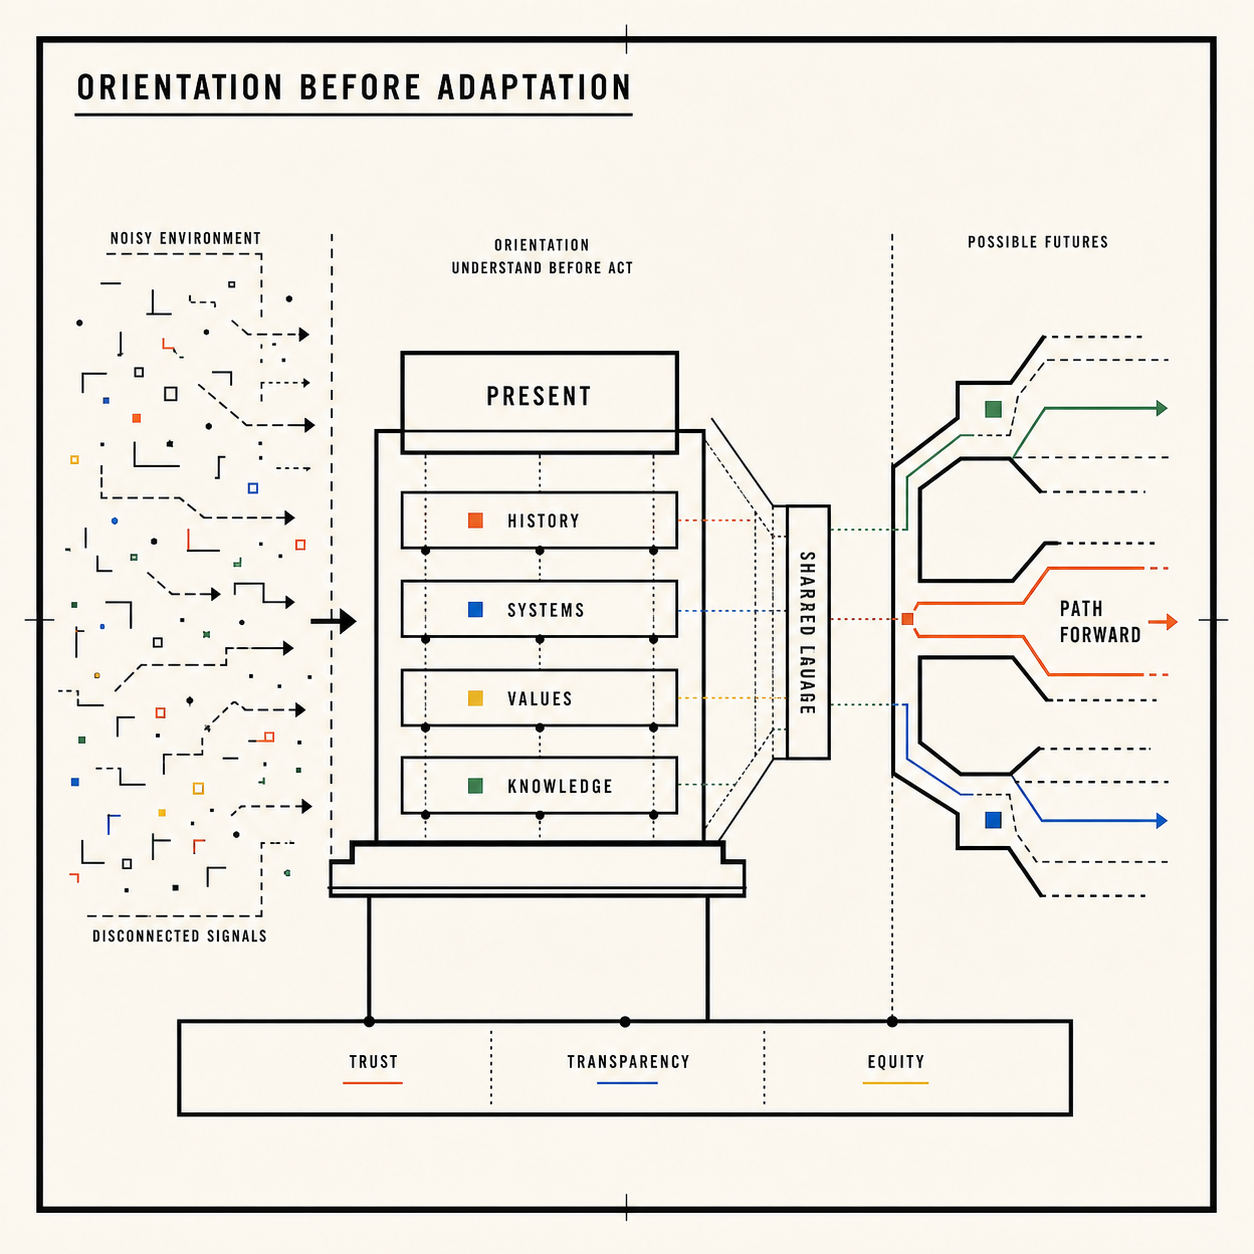
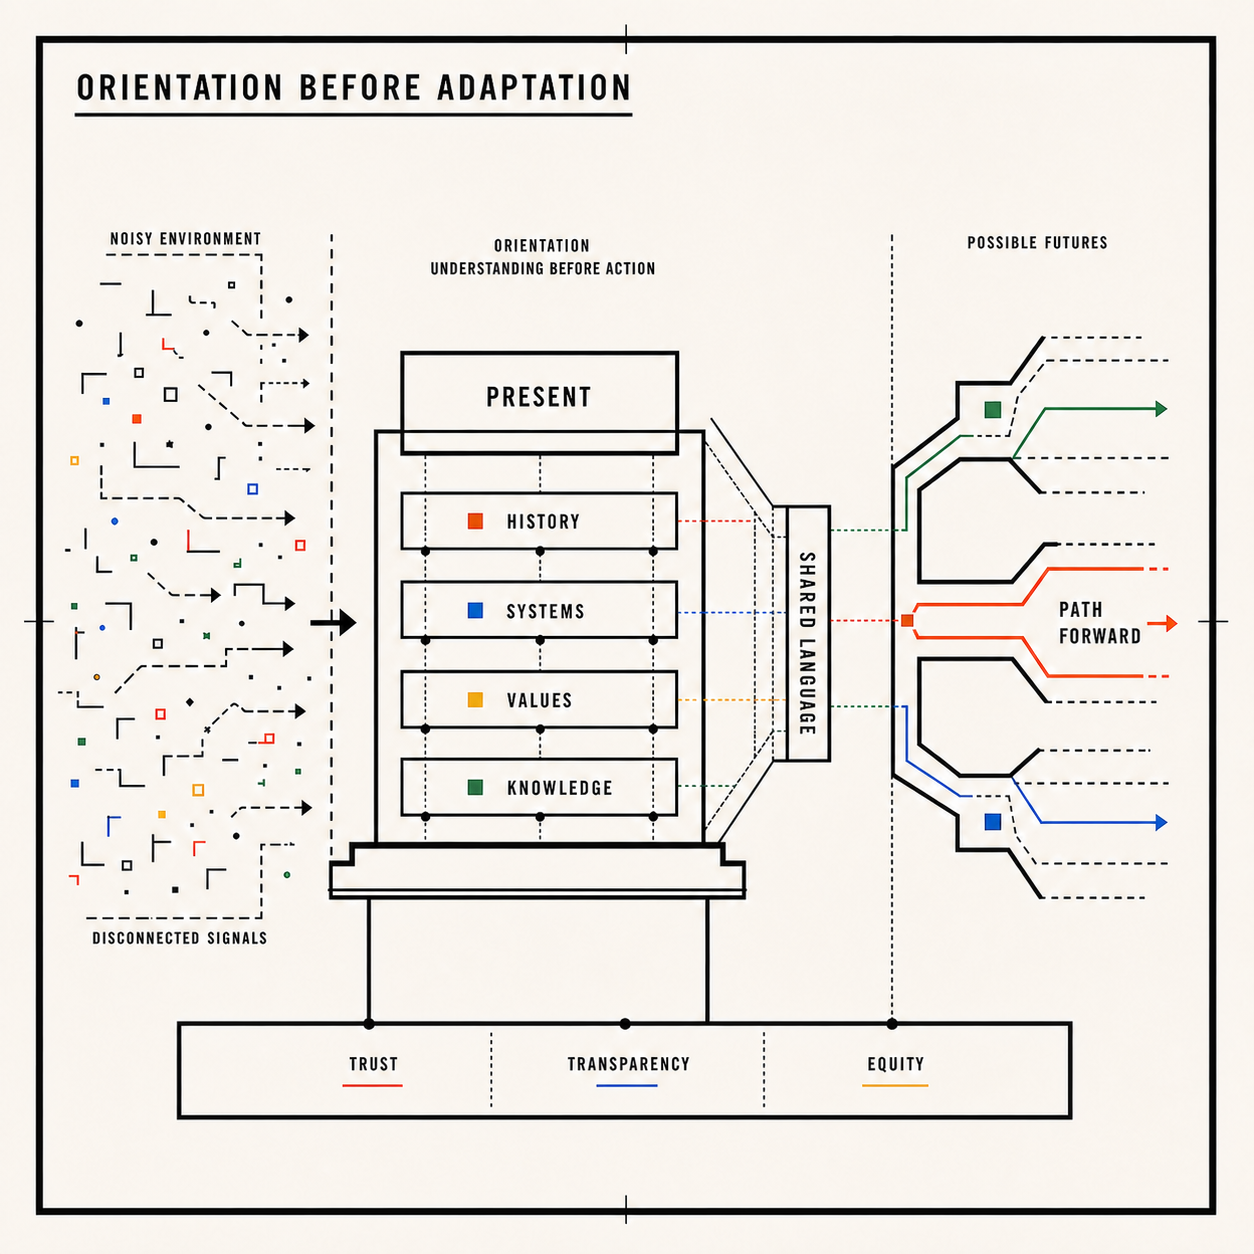
Correct approach headings and orientation diagram

diff --git a/app/page.tsx b/app/page.tsx
@@ -499,8 +499,8 @@ export default function Home() {
       <section className="three-col" style={{ borderBottom: RULE }}>
         {[
           { title: "Orientation Before Adaptation", image: "/orientation-before-adaptation.png", alt: "Architectural diagram showing an organization orienting its history, systems, values, and people before adapting", body: "We build systems, platforms, and strategies for individuals and organizations that embrace the complexity of today.\n\nWe work in a noisy and chaotic world, where technologies emerge and change at lightning speed. For groups that know they must adapt, this can create confusion and paralysis.\n\nBefore recommending any act of adaptation, we orient the organization, its staff, and especially its leadership to the present moment and possible futures. Using a human-centred approach and current tools we bring its history, systems, values, and institutional knowledge forward so it can understand and inform the changes happening around it, recognize the opportunities available, and chart a path forward.\n\nGrounded in trust, transparency, and equity, our work prioritizes client support and self-sufficiency over lock-in.\n\nWe establish a shared language that grounds us in the present as we look to the future." },
-          { title: "Connecting the Historical Present", image: "/connecting-the-historical-present.png", alt: "Architectural diagram connecting historical organizational records to an active present and informed future", body: "Organizational orientation requires more than understanding current conditions. It also requires understanding how the organization arrived here.\n\nDecades of institutional knowledge can become scattered across past projects, strategic directives, manuals, board minutes, correspondence, research, and abandoned document systems. Valuable ideas and hard-earned lessons remain buried in old Dropbox folders and unnavigable Microsoft 365 document trees, disconnected from the people who could use them today.\n\nGenerative and agentic tools can help retrieve, organize, connect, and interpret these materials at a scale that was previously too costly or exhausting to contemplate. When this knowledge is integrated into current systems, staff can understand not only what was done, but why it was done, what was learned, and what remains useful.\n\nThis is not an exercise in nostalgia. It restores continuity, reduces repeated work, and returns the knowledge and wisdom of earlier leaders to the active life of the organization.\n\nBy bringing its past forward, an organization can better understand its present and make more informed choices about its future." },
-          { title: "The Language of Intention", image: "/the-language-of-intention.png", alt: "Architectural diagram showing human attention, judgment, experience, and care forming shared language and intention", body: "Orientation begins with language. An organization cannot understand where it is, bring its historical knowledge forward, or decide where it wants to go without a clear and shared way of describing itself and the world around it.\n\nLanguage is not a product we delegate to technology. It is a human and intentional act shaped by attention, judgment, experience, and care. AI can retrieve, organize, compare, and generate words, but it cannot determine what an organization means, believes, or intends to say.\n\nWe listen carefully, ask precise questions, and help staff and leadership find language that reflects their knowledge, values, and ambitions. This creates the common ground required for trust, collaboration, and informed action.\n\nWhen historical materials are returned to active use, clear language connects past insight to present conditions. It helps an organization preserve what remains valuable, recognize what has changed, and articulate what must come next.\n\nThe world changes quickly, but the foundations of meaningful work remain human: clarity, trust, intention, and collaboration." },
+          { title: "Connect to the Historical Present", image: "/connecting-the-historical-present.png", alt: "Architectural diagram connecting historical organizational records to an active present and informed future", body: "Organizational orientation requires more than understanding current conditions. It also requires understanding how the organization arrived here.\n\nDecades of institutional knowledge can become scattered across past projects, strategic directives, manuals, board minutes, correspondence, research, and abandoned document systems. Valuable ideas and hard-earned lessons remain buried in old Dropbox folders and unnavigable Microsoft 365 document trees, disconnected from the people who could use them today.\n\nGenerative and agentic tools can help retrieve, organize, connect, and interpret these materials at a scale that was previously too costly or exhausting to contemplate. When this knowledge is integrated into current systems, staff can understand not only what was done, but why it was done, what was learned, and what remains useful.\n\nThis is not an exercise in nostalgia. It restores continuity, reduces repeated work, and returns the knowledge and wisdom of earlier leaders to the active life of the organization.\n\nBy bringing its past forward, an organization can better understand its present and make more informed choices about its future." },
+          { title: "Use the Language of Intention", image: "/the-language-of-intention.png", alt: "Architectural diagram showing human attention, judgment, experience, and care forming shared language and intention", body: "Orientation begins with language. An organization cannot understand where it is, bring its historical knowledge forward, or decide where it wants to go without a clear and shared way of describing itself and the world around it.\n\nLanguage is not a product we delegate to technology. It is a human and intentional act shaped by attention, judgment, experience, and care. AI can retrieve, organize, compare, and generate words, but it cannot determine what an organization means, believes, or intends to say.\n\nWe listen carefully, ask precise questions, and help staff and leadership find language that reflects their knowledge, values, and ambitions. This creates the common ground required for trust, collaboration, and informed action.\n\nWhen historical materials are returned to active use, clear language connects past insight to present conditions. It helps an organization preserve what remains valuable, recognize what has changed, and articulate what must come next.\n\nThe world changes quickly, but the foundations of meaningful work remain human: clarity, trust, intention, and collaboration." },
         ].map((col) => (
           <div key={col.title} className="three-col-cell">
             <h3 className="three-col-title" style={{
